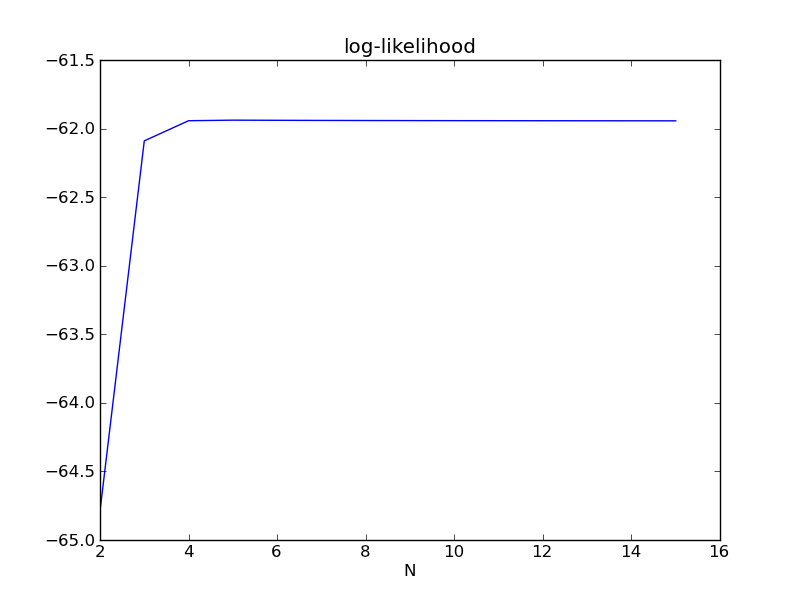
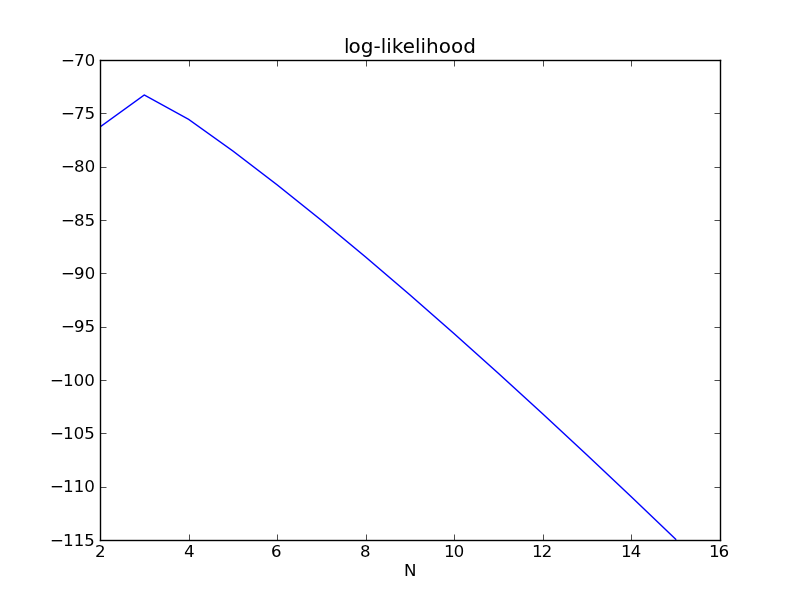
ilc fits

diff --git a/plzf_data.py b/plzf_data.py
@@ -1,0 +1,90 @@
+
+import numpy as np
+from binary_fixed_pool import BinaryFixedModel
+import matplotlib.pyplot as plt
+from scipy.misc import comb
+from scipy.stats import beta as beta_distr
+from scipy.stats import norm
+from scipy.stats import binom
+import matplotlib.cm as cm
+from scipy.special import beta as beta_func
+
+# trying to do some fitting on the plzf single cell data
+D = np.zeros((2,2,2)) # three cell options
+D[1,0,0] = 185.
+D[0,1,0] = 99.
+D[0,0,1] = 49.
+D[1,1,0] = 9.
+D[0,1,1] = 11.
+D[1,0,1] = 19.
+D[1,1,1] = 6.
+
+# first some binary fits on the aggregate data
+# agg_D[i] is aggregate data of ith cell vs rest
+agg_D = np.zeros((3,2,2))
+# just write out the different possibilities
+# for p1 vs rest
+agg_D[0][0,1] = D[0,0:2,0:2].sum()
+agg_D[0][1,0] = D[1,0,0]
+agg_D[0][1,1] = D[1,0:2,0:2].sum() - D[1,0,0]
+# for p2 vs rest
+agg_D[1][0,1] = D[0:2,0,0:2].sum()
+agg_D[1][1,0] = D[0,1,0]
+agg_D[1][1,1] = D[0:2,1,0:2].sum() - D[0,1,0]
+# for p3 vs rest
+agg_D[2][0,1] = D[0:2,0:2,0].sum()
+agg_D[2][1,0] = D[0,0,1]
+agg_D[2][1,1] = D[0:2,0:2,1].sum() - D[0,0,1]
+
+'''
+## fixed N fitting to aggregate data
+for i in xrange(3):
+    print 'p%d' % i
+    for j in xrange(2,16):
+        B = BinaryFixedModel(agg_D[i],j)
+        print j,B.estimate_p(),B.estimate_ll()
+'''
+# we're gonna go with N=3
+N = 3
+ps = np.zeros(3)
+Bs = [None for i in xrange(3)]
+for i in xrange(3):
+    Bs[i] = BinaryFixedModel(agg_D[i],N)
+    ps[i] = Bs[i].estimate_p()
+
+# generate p distribution plots and CIs
+# colors = cm.Dark2(np.linspace(0,1,len(samples)))
+npoints = 10000
+x = np.linspace(0,1,npoints)
+ydist = np.zeros((3,npoints))
+for i in xrange(3):
+    f = plt.figure()
+    for j in xrange(len(Bs[i].bweights)):
+        if Bs[i].bweights[j] > 0:
+            bd = beta_distr.pdf(x,j+Bs[i].alpha,Bs[i].Ntotal-j+Bs[i].beta)
+            if np.isnan(bd).any():
+                a = j + Bs[i].alpha
+                b = Bs[i].Ntotal-j+Bs[i].beta
+                bd = norm.pdf(x,a/(a+b),np.sqrt((a*b)/((a+b)*(a+b)*(a + b + 1))))
+            ydist[i] += Bs[i].bweights[j] * bd
+    
+    plt.plot(x,ydist[i])
+    plt.xlabel('p')
+    f.savefig('p%d_dist.png' % i)
+    plt.show()
+
+# get an estimate 'CI'
+CIs = np.zeros((3,2))
+for i in xrange(3):
+    lindex = min(np.array(range(len(ydist[i])))[0.05 < np.cumsum(ydist[i]/ydist[i].sum())])
+    hindex = min(np.array(range(len(ydist[i])))[0.95 < np.cumsum(ydist[i]/ydist[i].sum())])
+    CIs[i][0] = x[lindex]
+    CIs[i][1] = x[hindex]
+
+# rough p-value for aggregate mixed wells
+for i in xrange(3):
+    T = agg_D[i].sum()
+    p = Bs[i].estimate_p()
+    print binom.cdf(agg_D[i][1,1],T,(1 - p**3 - (1-p)**3))
+
+
